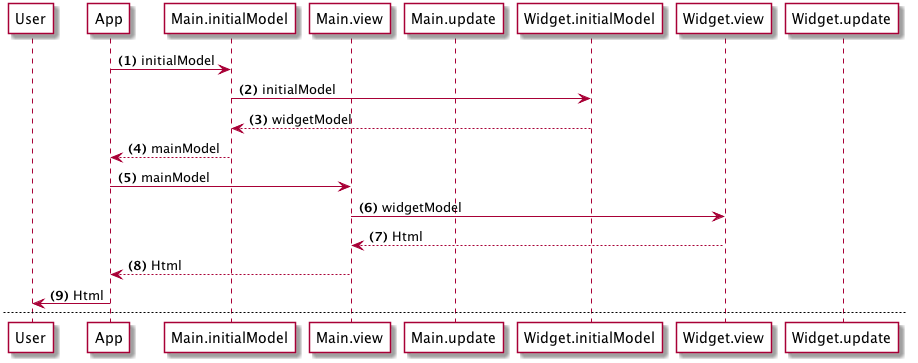
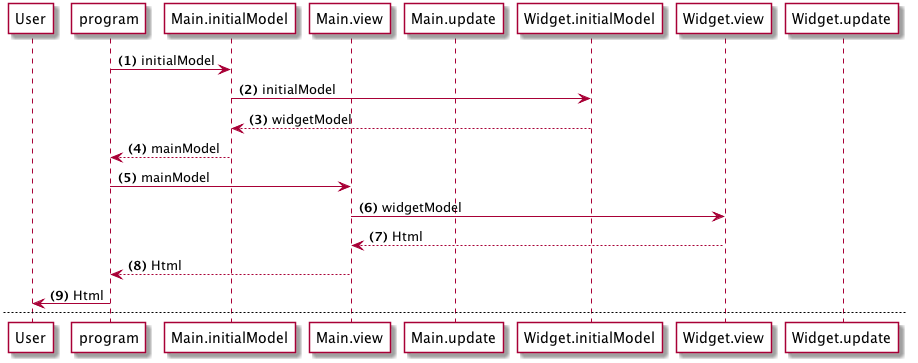
Update all Elm arch chapter to Elm 018

Changed region(s): [[0.061, 0.8788, 0.183, 1.0], [0.061, 0.0, 0.183, 0.1212]]

diff --git a/en/02-elm-arch/08-composing-3.md b/en/02-elm-arch/08-composing-3.md
@@ -1,4 +1,4 @@
-> This page covers Elm 0.17
+> This page covers Elm 0.18
 
 # Composing
 
@@ -8,7 +8,7 @@ Here are two diagrams that illustrate this architecture:
 
 ![Flow](06-composing.png)
 
-(1) __App__ calls __Main.initialModel__ to get the initial model for the application
+(1) __program__ calls __Main.initialModel__ to get the initial model for the application
 
 (2) __Main__ calls __Widget.initialModel__
 
@@ -16,15 +16,15 @@ Here are two diagrams that illustrate this architecture:
 
 (4) __Main__ returns a composed main model which includes the widget model
 
-(5) __App__ calls __Main.view__, passing the __main model__
+(5) __program__ calls __Main.view__, passing the __main model__
 
 (6) __Main.view__ calls __Widget.view__, passing the __widgetModel__ from the main model
 
 (7) __Widget.view__ returns the rendered Html to __Main__
 
-(8) __Main.view__ returns the rendered Html to __App__
+(8) __Main.view__ returns the rendered Html to __program__
 
-(9) __App__ renders this to the browser.
+(9) __program__ renders this to the browser.
 
 ---
 
@@ -36,17 +36,17 @@ Here are two diagrams that illustrate this architecture:
 
 (2) __Widget.view__ emits an __Increase__ message which is picked up by __Main.view__.
 
-(3) __Main.view__ tags this message so it becomes (WidgetMsg Increase) and it is sent along to __App__
+(3) __Main.view__ tags this message so it becomes (WidgetMsg Increase) and it is sent along to __program__
 
-(4) __App__ calls __Main.update__ with this message and the main model
+(4) __program__ calls __Main.update__ with this message and the main model
 
 (5) As the message was tagged with __WidgetMsg__, __Main.update__ delegates the update to __Widget.update__, sending along the way the __widgetModel__ part of the main model
 
 (6) __Widget.update__ modifies the model according to the given message, in this case __Increase__. And returns the modified __widgetModel__ plus a command
 
-(7) __Main.update__ updates the main model and returns it to __App__
+(7) __Main.update__ updates the main model and returns it to __program__
 
-(8) __App__ then renders the view again passing the updated main model
+(8) __program__ then renders the view again passing the updated main model
 
 ## Key points
 

diff --git a/en/02-elm-arch/05-msg-payload.md b/en/02-elm-arch/05-msg-payload.md
@@ -1,4 +1,4 @@
-> This page covers Elm 0.17
+> This page covers Elm 0.18
 
 # Messages with payload
 
@@ -7,9 +7,8 @@ You can send a payload in your message:
 ```elm
 module Main exposing (..)
 
-import Html exposing (Html, button, div, text)
+import Html exposing (Html, button, div, text, program)
 import Html.Events exposing (onClick)
-import Html.App
 
 
 -- MODEL
@@ -68,9 +67,9 @@ subscriptions model =
 -- MAIN
 
 
-main : Program Never
+main : Program Never Model Msg
 main =
-    Html.App.program
+    program
         { init = init
         , view = view
         , update = update

diff --git a/en/02-elm-arch/07-composing-2.md b/en/02-elm-arch/07-composing-2.md
@@ -1,4 +1,4 @@
-> This page covers Elm 0.17
+> This page covers Elm 0.18
 
 # Composing
 
@@ -9,8 +9,7 @@ This is the code for the parent component.
 ```elm
 module Main exposing (..)
 
-import Html exposing (Html)
-import Html.App
+import Html exposing (Html, program)
 import Widget
 
 
@@ -80,9 +79,9 @@ subscriptions model =
 -- APP
 
 
-main : Program Never
+main : Program Never Model Msg
 main =
-    Html.App.program
+    program
         { init = init
         , view = view
         , update = update

diff --git a/en/02-elm-arch/06-composing.md b/en/02-elm-arch/06-composing.md
@@ -1,4 +1,4 @@
-> This page covers Elm 0.17
+> This page covers Elm 0.18
 
 # Composing
 
